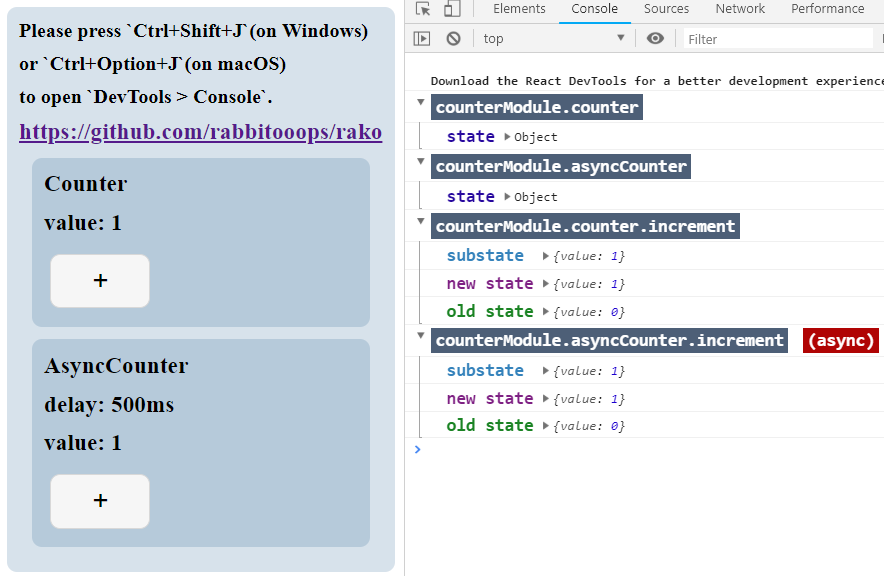
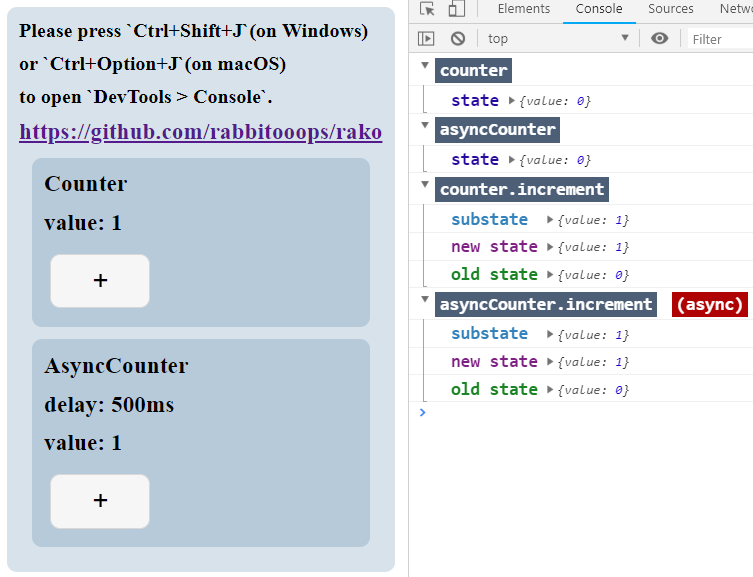
redesign setState

diff --git a/src/Store.js b/src/Store.js
@@ -1,4 +1,4 @@
-function setState(substate) {
+function setState({type, isSync, substate, extra}) {
   if (this.isSettingState) {
     throw new Error('`setState`: Don\'t `setState` as setting state.')
   }
@@ -6,8 +6,9 @@ function setState(substate) {
     throw new TypeError('`setState`: Expected `substate` to be an object, but got: ' + (substate == null ? substate : typeof substate) + '.')
   }
   this.state = Object.freeze(Object.assign({}, this.state, substate))
+  const info = Object.freeze({type, isSync, state: this.state, extra})
   this.isSettingState = true
-  this.listeners.forEach(listener => listener(this.state))
+  this.listeners.forEach(listener => listener(info))
   this.isSettingState = false
 }
 
@@ -20,31 +21,35 @@ class Store {
       throw new TypeError('`Store`: Expected `middleware` to be a function, but got: ' + (middleware == null ? middleware : typeof middleware) + '.')
     }
 
-    let getState = () => {
+    let _getState = () => {
       throw new Error('`Store`: Don\'t `getState` as constructing store.')
     }
-    const result = producer(() => getState())
+    const result = producer(function getState() {
+      return _getState()
+    })
     if (result == null || typeof result !== 'object') {
       throw new TypeError('`Store`: Expected returned value from `producer` to be an object, but got: ' + (result == null ? result : typeof result) + '.')
     }
 
     let _setState
-    let isSync = false
-    const setStatePointer = type => substate => _setState({type, substate, isSync})
 
     const values = []
     const functions = []
-    Object.keys(result).forEach(key => {
-      const value = result[key]
+    Object.keys(result).forEach(type => {
+      const value = result[type]
       if (typeof value === 'function') {
-        functions.push({[key]: (...args) => {
-          isSync = true
-          const ret = value.apply({setState: setStatePointer(key)}, args)
+        functions.push({[type](...args) {
+          let isSync = true
+          const ret = value.apply({
+            setState(substate, extra) {
+              return _setState({type, isSync, substate, extra})
+            }
+          }, args)
           isSync = false
           return ret
         }})
       } else {
-        values.push({[key]: value})
+        values.push({[type]: value})
       }
     })
 
@@ -59,14 +64,14 @@ class Store {
     this.getActions = this.getActions.bind(_private)
     this.subscribe = this.subscribe.bind(_private)
 
-    _setState = ({substate}) => setState.call(_private, substate)
+    _setState = setState.bind(_private)
     if (middleware) {
-        getState = () => {
-          throw new Error('`getState` was broken because an error was throwing as applying `middleware`, fixing the bug in `middleware` to return normal.')
+        _getState = () => {
+          throw new Error('`getState` was broken because an error was thrown while connecting to `middleware`, fixing the bug in `middleware` to return normal.')
         }
       _setState = middleware(this.getState, _setState)
     }
-    getState = this.getState
+    _getState = this.getState
   }
   getState() {
     return this.state

diff --git a/src/withEnhancers.js b/src/withEnhancers.js
@@ -1,11 +1,9 @@
 import {_createStores} from './createStores'
 
 function withEnhancers(...enhancers) {
-  enhancers.forEach(enhancer => {
-    if (typeof enhancer !== 'function') {
-      throw new TypeError('`withEnhancers`: Expected each `enhancer` in `enhancers` to be a function.')
-    }
-  })
+  if (enhancers.some(enhancer => typeof enhancer !== 'function')) {
+    throw new TypeError('`withEnhancers`: Expected every `enhancer` to be a function.')
+  }
   return function createStores(...producers) {
     return _createStores(producers, enhancers)
   }

diff --git a/src/createStores.js b/src/createStores.js
@@ -17,6 +17,9 @@ function applyMiddleware(middlewares) {
 
 
 function _createStores(producers, enhancers) {
+  if (producers.some(producer => typeof producer !== 'function')) {
+    throw new TypeError('`createStores`: Expected every `producer` to be a function.')
+  }
   return producers.map(producer => {
     const middlewares = enhancers.map(enhancer => enhancer(producer)).filter(middleware => middleware !== null)
     return new Store(producer, middlewares.length ? applyMiddleware(middlewares) : undefined)

diff --git a/README.md b/README.md
@@ -34,89 +34,6 @@ After you open the link of **codeSandbox** above, because **codeSandbox** doesn'
 
 
 
-## Design
-
-Rako is inspired by `OOP`, simple and intuitive.
-
-```js
-const counter = {
-  value: 0,
-  increment() {
-    this.value += 1
-  }
-}
-counter.increment()
-```
-
-Let's transform it for fitting our design:
-
-> 1. Immutable state.
-> 2. Do some side subscribes every updating.
-> 3. Locate `setState` as updating. (You have got to open the example link above to get more details.)
-
-```js
-import {withEnhancers, createStores} from 'rako'
-
-/**
- * I call such function as `producer`.
- * `producer` produces an object which be used to construct `Store`.
- */
-function counter(getState) {
-  return {
-    value: 0,
-    increment() {
-      const {value} = getState()
-      this.setState({value: value + 1})
-    }
-  }
-}
-
-/**
- * createStores(...producers: Array<function>): Array<Store>
- * 
- * Usage: Create stores.
- */
-const [counterStore] = createStores(counter)
-
-/**
- * withEnhaner(...enhancers: Array<function>): createStores
- * 
- * Usage: You can also use `withEnhancers` for using some enhancers such as `rako-logger` to create stores.
- * The returned value is the same as `createStore`.
- */
-// const [counterStore] = withEnhancers(logger('counterModule'))(counter)
-
-
-/**
- * store.getState()
- * 
- * Usage: Get store's state.
- */
-console.log(counterStore.getState())  // Print `{value: 0}`
-
-/**
- * store.subscribe(listener: function): function
- * 
- * Usage: Subscribe a side effect, return an `unsubscribe` function,
- * you can call `unsubscribe()` to unsubscribe this side effect.
- */
-const unsubscribe = counterStore.subscribe(state => console.log('state:', state))
-
-/**
- * store.getActions()
- * 
- * Usage: Before `increment`, you have got to get `actions` from `counterStore`.
- */
-const actions = counterStore.getActions()
-
-// The Console will print `state: {value: 1}` after updating `state`.
-actions.increment()
-```
-
-That's all usage of Rako!
-
-
-
 ## API
 
 #### `createStores(...producers: Array<function>): Array<Store>`
@@ -162,7 +79,7 @@ function producer(getState) {
 
 **`getState()` in `producer` is equivalent to `store.getState()`, but you can't `getState()` as constructing `Store`.**
 
-**`this.setState(substate: object)`**
+**`this.setState(substate: object, extra: any?)`**
 
 
 
